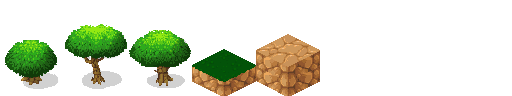
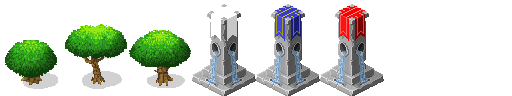
No ID anymore, mapGen takes new class syst. into account

Changed region(s): [[0.375, 0.0625, 0.75, 1.0]]

diff --git a/client/js/app.js b/client/js/app.js
@@ -1,39 +1,39 @@
 /* global Vue, io, Canvas, displayGame */
 /* eslint-disable no-new */
 new Vue({
-  el: '#app',
-  data: {
-    hasParty: false,
-    aiList: [],
-    ai1: '', ai2: ''
-  },
-  mounted () {
-    this.socket = io.connect()
-    this.socket.on('ai-list', list => (this.aiList = list))
-    this.socket.on('start-game', state => {
-      this.hasParty = true
-      this.$nextTick(() => {
-        this.screen = new Canvas('screen')
-        displayGame(this.screen, state.mapSize, state.terrain, state.elements)
-      })
-    })
-    this.socket.on('update-game', state => {
-      if (!this.screen) return
-      this.screen.removeAll()
-      displayGame(this.screen, state.mapSize, state.terrain, state.elements)
-    })
-    this.socket.on('end-game', data => {
-      if (!this.screen) return
-      console.log(data.winner)
-      this.screen.removeAll()
-      this.screen = null
-      this.hasParty = false
-    })
-  },
-  methods: {
-    onSubmit () {
-      if (this.ai1 === '' || this.ai2 === '') return
-      this.socket.emit('start-game', [this.ai1, this.ai2])
-    }
-  }
+	el: '#app',
+	data: {
+		hasParty: false,
+		aiList: [],
+		ai1: '', ai2: ''
+	},
+	mounted () {
+		this.socket = io.connect()
+		this.socket.on('ai-list', list => (this.aiList = list))
+		this.socket.on('start-game', state => {
+			this.hasParty = true
+			this.$nextTick(() => {
+				this.screen = new Canvas('screen')
+				displayGame(this.screen, state.mapSize, state.terrain, state.elements)
+			})
+		})
+		this.socket.on('update-game', state => {
+			if (!this.screen) return
+			this.screen.removeAll()
+			displayGame(this.screen, state.mapSize, state.terrain, state.elements)
+		})
+		this.socket.on('end-game', data => {
+			if (!this.screen) return
+			console.log(data.winner)
+			this.screen.removeAll()
+			this.screen = null
+			this.hasParty = false
+		})
+	},
+	methods: {
+		onSubmit () {
+			if (this.ai1 === '' || this.ai2 === '') return
+			this.socket.emit('start-game', [this.ai1, this.ai2])
+		}
+	}
 })

diff --git a/client/index.html b/client/index.html
@@ -25,7 +25,10 @@
 	<body>
 		<div id="app">
 			<!--TODO : Dynamic scaling, depending on the the page's layout-->
-			<canvas v-if="hasParty" id="screen" width="1600" height="800"></canvas>
+			<canvas id="screen" width="1600" height="800"></canvas>
+
+			<!-- <canvas v-if="hasParty" id="screen" width="1600" height="800"></canvas>
+
 			<div v-else>
 				<select v-model="ai1">
 					<option v-for="ai in aiList">{{ ai }}</option>
@@ -36,7 +39,7 @@
 				</select>
 
 				<button @click="onSubmit">Start!</button>
-			</div>
+			</div> -->
 		</div>
 	</body>
 
@@ -46,4 +49,23 @@
 	<script src="js/displayGame.js"></script>
 
 	<script src="js/app.js" charset="utf-8"></script>
+	<script type="text/javascript">
+	const socket = io.connect()
+	socket.emit('start-game', ["safe", "safe"])
+	socket.on('start-game', state => {
+	const screen = new Canvas('screen')
+	displayGame(screen, state.mapSize, state.terrain, state.elements)
+	})
+	socket.on('update-game', state => {
+	if (!screen) return
+	screen.removeAll()
+	displayGame(screen, state.mapSize, state.terrain, state.elements)
+	})
+	socket.on('end-game', data => {
+	if (!screen) return
+	console.log(data.winner)
+	screen.removeAll()
+	screen = null
+	})
+	</script>
 </html>

diff --git a/game/utils/mapGenerator.js b/game/utils/mapGenerator.js
@@ -1,5 +1,6 @@
 const FastSimplexNoise = require('fast-simplex-noise')
-const Resource = require('../abstract/resource')
+const Tree = require('../element/tree')
+const Fountain = require('../element/fountain')
 const Building = require('../abstract/building')
 const config = require('../config')
 
@@ -69,7 +70,7 @@ module.exports = function generate (options = {}) {
 			terrain[x][y] < 14 && terrain[x][y] > 8 &&
 			rainNoiseGen.scaled2D(x / opt.rainZoomLevel, y / opt.rainZoomLevel) > opt.treeRainLevel
 		) {
-			return new Resource(Math.floor(Math.random() * 3), x, y)
+			return new Tree(x, y, Math.floor(Math.random() * 3))
 		}
 	})
 
@@ -109,7 +110,7 @@ module.exports = function generate (options = {}) {
 				terrain[x + dx][y + dy] = 16
 			}
 		}
-		elements[x][y] = new Building(null, 1, x, y)
+		elements[x][y] = new Fountain(x, y)
 	}
 
 	let off = Math.max(Math.floor(opt.mapSize / 6), opt.fountainRadius)

diff --git a/game/abstract/element.js b/game/abstract/element.js
@@ -6,16 +6,15 @@
 // ====================================================
 module.exports = class Element {
 
-	// > constructor (id, x, y)
-	constructor (id, x, y) {
-		this.id = id
+	// > constructor (x, y)
+	constructor (x, y) {
 		this.team = null // team (Team) the element belongs to, null for none
 		this.pos = {x : x, y : y} // Coord. on the map
 		this.size = 1 // Size of the slot occupied (1x1, 2x2, etc.)
 		this.healthPoint = 10 // Health points of the element
 		this.maxHealthPoint = 10 // Maximum HP this element can ever have
 		this.sprite = { x: 0, y: 0 } // position (x, y) of the sprite on the spriteset (1 = 32px)
-    this.cost = 0 // Cost of the element, to be defined in inherited classes (Units, Buildings)
+		this.cost = 0 // Cost of the element, to be defined in inherited classes (Units, Buildings)
 
 		// Static variables TODO
 		this.attackFactors = {}

diff --git a/game/element/fountain.js b/game/element/fountain.js
@@ -1,4 +1,5 @@
 const Resource = require('../abstract/resource')
+const config = require('../config')
 
 // ====================================================
 //  > Fountain
@@ -10,7 +11,27 @@ module.exports = class Fountain extends Resource {
 	// > constructor (x, y)
 	constructor (x, y) {
 		super(x, y)
-		// ...
+		this.team = null
+		this.sprite = { x: 3, y: 0 }
 	}
 
+	// > setTeam
+	//	Change the current team controling the fountain
+	//	and the color of the latter by the way
+	setTeam (newTeam) {
+		this.team = newTeam
+		let shift = 0
+
+		if (newTeam) {
+			shift = newTeam.id
+		}
+
+		this.sprite = { x: 3 + shift, y: 0 }
+	}
+
+	// > addPoints
+	//	if a team is in control, add its points
+	addPoints () {
+		this.team.resource.glory += config.gameConst.gloryPoints
+	}
 }

diff --git a/lib/engine.js b/lib/engine.js
@@ -8,10 +8,10 @@ const socketIO = require('socket.io')
 function init (server) {
   io = socketIO(server)
   io.on('connection', socket => {
-  	socket.emit('ai-list', getAiList())
+	  socket.emit('ai-list', getAiList())
     socket.on('start-game', aiList => {
-      console.log('Start game:', aiList[0], 'vs', aiList[1])
-      startGame(socket, aiList[0], aiList[1])
+	console.log('Start game:', aiList[0], 'vs', aiList[1])
+	startGame(socket, aiList[0], aiList[1])
     })
   })
 }
@@ -52,7 +52,7 @@ function startGame (socket, ...botNames) {
 	// Game loop
 	let gameLoop = () => {
 		updateGame()
-		if (game.done) return endGame()
+		// if (game.done) return endGame()
 		setTimeout(gameLoop, 0) // Asynchronize
 	}
 

diff --git a/game/abstract/unit.js b/game/abstract/unit.js
@@ -8,8 +8,8 @@ const Element = require('./element')
 module.exports = class Unit extends Element {
 
 	// > constructor (Team team, id, x, y)
-	constructor (team, id, x, y) {
-		super(id, x, y)
+	constructor (team, x, y) {
+		super(x, y)
 		this.team = team
 		this.target = null
 		// Read data
@@ -45,12 +45,9 @@ module.exports = class Unit extends Element {
 	// to the AI or the renderer
 	jsonify () {
 		return Object.assign(
-		super.jsonify(),
-		{
-			type: 'unit',
-			health: this.healthPoint
-		}
-	)
+			super.jsonify(),
+			{ type: 'unit' }
+		)
 	}
 
 }

diff --git a/game/element/villager.js b/game/element/villager.js
@@ -10,7 +10,6 @@ module.exports = class Villager extends Unit {
 	// > constructor (Team team, x, y)
 	constructor (team, x, y) {
 		super(team, x, y)
-		this.team = team
 		this.load = 0 // What the villager carries
 		this.sprite = { x: 1, y: 2 }
 		// Read data
@@ -34,12 +33,4 @@ module.exports = class Villager extends Unit {
 		this.load = 0
 		return t
 	}
-
-	// > jsonify ()
-	//		return an object that can be given
-	// to the AI or the renderer
-	jsonify () {
-		return Object.assign( super.jsonify(), { type: 'unit' })
-	}
-
 }

diff --git a/game/abstract/building.js b/game/abstract/building.js
@@ -7,15 +7,10 @@ const Element = require('./element')
 // ====================================================
 module.exports = class Building extends Element {
 
-	// > constructor (Team team, id, x, y)
-	constructor (team, id, x, y) {
-		super(id, x, y)
+	// > constructor (Team team, x, y)
+	constructor (team, x, y) {
+		super(x, y)
 		this.team = team
-
-		// Read data
-		// this.name = data[id].name
-		// this.size = data[id].size
-		// this.cost = data[id].cost
 
 		// Building queue
 		const MAX_QUEUE_SIZE = 5

diff --git a/game/abstract/resource.js b/game/abstract/resource.js
@@ -8,16 +8,18 @@ const Element = require('./element')
 module.exports = class Resource extends Element {
 
 	// > constructor (id, x, y)
-	constructor (id, x, y) {
-		super(id, x, y)
-		this.sprite.x = id
+	constructor (x, y) {
+		super(x, y)
 	}
 
 	// > jsonify ()
 	//		return an object that can be given
 	// to the AI or the renderer
 	jsonify () {
-		return Object.assign(super.jsonify(), { type: 'resource' })
+		return Object.assign(
+			super.jsonify(),
+			{ type: 'resource' }
+		)
 	}
 
 }

diff --git a/utils/map.js b/utils/map.js
@@ -1,0 +1,9 @@
+module.exports = {
+	// > isWithin(r, pos, target)
+	//	Return if the target is at a maximum distance of r
+	//	of the given coordinates.
+	//	Computed as a 'circle'
+	isWithin(r, pos, target) {
+		return (abs(pos.x - target.x) + abs(pos.y - target.y) <= r)
+	}
+}

diff --git a/game/core.js b/game/core.js
@@ -25,7 +25,7 @@ module.exports = class Core {
 		this.elements = elements // all game elements
 
 		// Testing purposes TODO
-		this.elements[2][2] = new Villager(this.teams[0],2,2,2)
+		this.elements[2][2] = new Villager(this.teams[0],2,2)
 	}
 
 	// > getState ()
